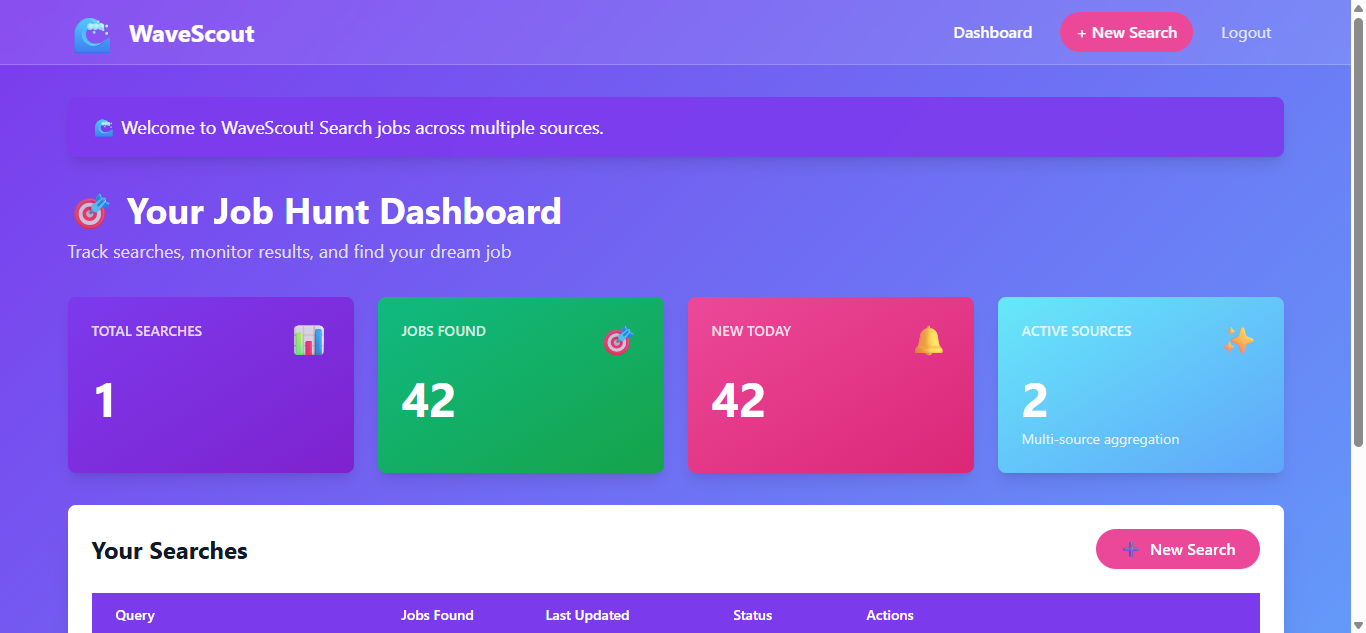
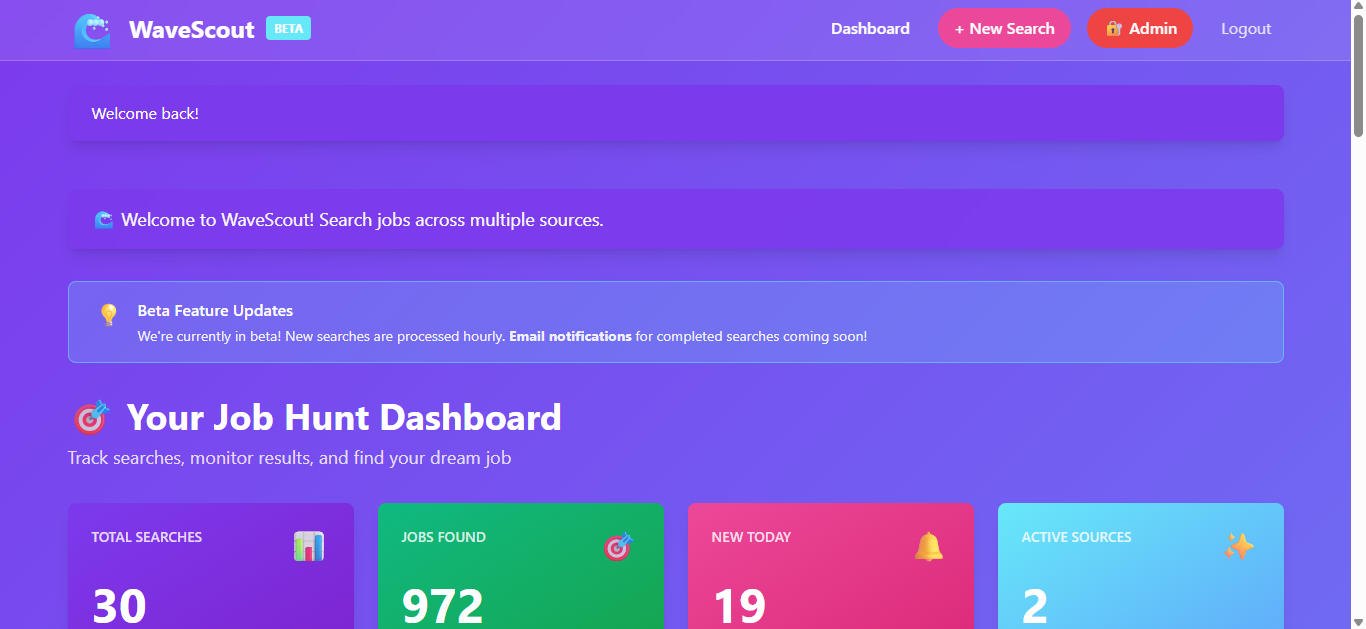
Add video demo section and update screenshots
- Add 7 new professional screenshots
- Update README with video demo section
- Update metrics: 972+ jobs aggregated
- Add detailed captions for each screenshot
- Show Beta badge, filtering, demo features

🤖 Generated with [Claude Code](https://claude.com/claude-code)

diff --git a/README.md b/README.md
@@ -61,23 +61,50 @@ Modern job boards are JavaScript-heavy, use anti-bot protection, and require com
 
 ---
 
+## 🎥 Video Demo
+
+**Watch WaveScout in action:** [Full walkthrough showing search creation, job aggregation, filtering, and admin features]
+
+> **Note:** Upload your `Wavescout_demo.mp4` to YouTube and replace this line with the embed code!
+
+**Quick YouTube upload instructions:**
+1. Go to youtube.com/upload
+2. Upload `c:/Users/carol/OneDrive/Desktop/Wavescout screenshots/Wavescout_demo.mp4`
+3. Title: "WaveScout - Multi-Source Job Aggregator Demo"
+4. Set as "Unlisted" (not public, but anyone with link can view)
+5. Copy the embed code and replace this section
+
+---
+
 ## 📸 Screenshots
 
-### Dashboard Overview
+### Dashboard - Real-Time Analytics
 ![Dashboard](screenshots/dashboard.png)
-*Real-time statistics showing 42 jobs aggregated from 2 sources*
+*972 jobs aggregated from 2 sources with real-time stats, Beta badge, and professional UI*
 
-### Job Search Interface
-![Search](screenshots/create-search.png)
-*Simple, intuitive search creation - instant results if search exists*
+### Create New Search
+![New Search](screenshots/newsearch.png)
+*Simple search creation - instant results if search exists in database*
 
-### Job Listings with Advanced Filtering
-![Listings](screenshots/job-listings.png)
-*Clean job cards with source badges, salary info, and easy apply indicators*
+### Job Listings with Smart Filtering
+![Job Listings](screenshots/joblistings.png)
+*Clean job cards with source badges, salary ranges, location, and easy apply indicators. One-click filtering by newest, oldest, or highest salary*
 
-### Search Results & Stats
-![Results](screenshots/search-results.png)
-*Live stats showing Source 1 (Indeed): 24 jobs, Source 2 (Dice): 18 jobs*
+### Search Results - Your Jobs
+![Your Jobs](screenshots/yourjobs.png)
+*Personalized job search results with saved searches and quick access to all opportunities*
+
+### Try Demo Feature
+![Try Demo](screenshots/trydemo.png)
+*Pre-populated demo searches for new users to experience the platform instantly*
+
+### How It Works
+![How It Works](screenshots/how%20it%20works.png)
+*Clear explanation of the platform's value proposition and workflow*
+
+### JavaScript Developer Search Example
+![JavaScript Jobs](screenshots/javascript.png)
+*Real job aggregation results showing diverse opportunities from multiple sources*
 
 ---
 
@@ -168,6 +195,7 @@ Render's free tier has CPU/memory limits. I solved this with:
 | Metric | Result |
 |--------|--------|
 | **Scraping Success Rate** | 100% |
+| **Total Jobs Aggregated** | 972+ opportunities |
 | **Response Time** | Instant for existing searches |
 | **Jobs per Search** | 45+ aggregated opportunities |
 | **Auto-Update Frequency** | Hourly (via local scheduler) |
